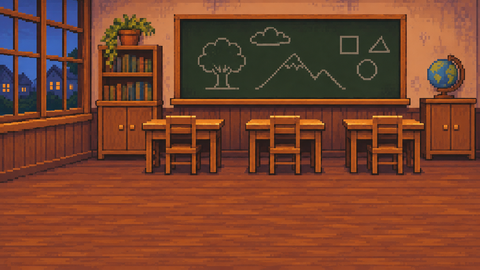
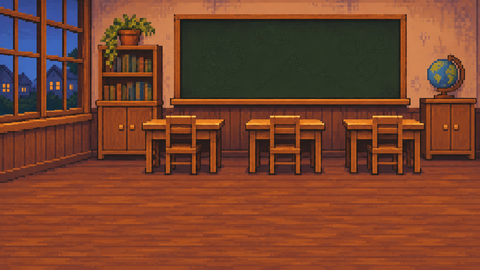
Pizarrón del instituto con ecuación, gráfico y cuenta de ahorro en lugar de dibujos infantiles
Claude-Session: https://claude.ai/code/session_01FYCCD4ovNXzH9stagu8csu

diff --git a/src/core/lugares.ts b/src/core/lugares.ts
@@ -50,6 +50,8 @@ export interface Escenario {
    * se calculó con objetos de medida conocida (una mesa mide unos 75 cm, un pupitre unos 75 cm).
    */
   escala?: number;
+  /** Lo escrito con tiza sobre un pizarrón: textos y trazos (listas de puntos x, y). */
+  tiza?: { textos: { x: number; y: number; s: string; tam: number }[]; trazos: number[][] };
 }
 
 const CALLEJON: Escenario = {
@@ -175,6 +177,30 @@ const INSTITUTO: Escenario = {
   lugar: 'instituto',
   fondos: [[0, 'instituto']],
   escala: 1.35,
+  // Pizarrón (x 181–400, y 21–95; lo de arriba de y = 38 queda bajo la barra del juego):
+  // álgebra, su gráfico y una cuenta de ahorro.
+  tiza: {
+    textos: [
+      { x: 188, y: 40, s: 'x² - 5x + 6 = 0', tam: 12 },
+      { x: 188, y: 55, s: '(x - 2)(x - 3) = 0', tam: 10 },
+      { x: 188, y: 69, s: 'x = 2   ó   x = 3', tam: 12 },
+      { x: 285, y: 40, s: 'y', tam: 8 },
+      { x: 334, y: 82, s: 'x', tam: 8 },
+      { x: 346, y: 40, s: 'Ahorro', tam: 9 },
+      { x: 346, y: 50, s: '  1200', tam: 10 },
+      { x: 346, y: 60, s: '-  950', tam: 10 },
+      { x: 346, y: 73, s: '   250', tam: 10 },
+    ],
+    trazos: [
+      // Ejes del gráfico.
+      [290, 88, 336, 88],
+      [292, 42, 292, 92],
+      // Parábola y = (x-2)(x-3): corta el eje en 2 y 3.
+      [296, 46, 300, 59, 304, 70, 308, 79, 312, 85, 316, 88, 320, 85, 324, 79, 328, 70, 332, 59],
+      // Raya de la resta.
+      [346, 71, 379, 71],
+    ],
+  },
   suelo: { x0: 36, x1: 444, y0: 206, y1: 264 },
   inicio: { x: 250, y: 240 },
   sinCama: 'Dormir en clase no está bien visto. Mejor me quedo despierto.',

diff --git a/src/escenas/Hogar.ts b/src/escenas/Hogar.ts
@@ -221,6 +221,7 @@ export class Hogar extends Phaser.Scene {
     this.rupert.etapa = e.etapa;
     this.rupert.reposo();
     this.crearRecogibles();
+    this.escribirTiza();
     this.crearHud();
 
     this.input.on('pointerdown', (p: Phaser.Input.Pointer) => this.tocar(p.x / E, p.y / E));
@@ -612,6 +613,27 @@ export class Hogar extends Phaser.Scene {
   private flotar(s: string, x: number, y: number, color: string): void {
     const t = texto(this, x, y, s, { tam: 14, color }).setOrigin(0.5).setDepth(2600);
     this.tweens.add({ targets: t, y: (y - 24) * E, alpha: 0, duration: 1200, onComplete: () => t.destroy() });
+  }
+
+  /** Texto y trazos de tiza sobre el pizarrón del lugar, si lo tiene. */
+  private escribirTiza(): void {
+    const t = this.esc.tiza;
+    if (!t) return;
+    const tiza = '#e6ece0';
+    for (const l of t.textos) {
+      this.add
+        .text(l.x * E, l.y * E, l.s, { fontFamily: '"VT323", monospace', fontSize: `${l.tam * E}px`, color: tiza })
+        .setAlpha(0.85)
+        .setDepth(-5);
+    }
+    const g = this.add.graphics().setDepth(-5).setAlpha(0.8);
+    g.lineStyle(E, 0xe6ece0, 1);
+    for (const tr of t.trazos) {
+      g.beginPath();
+      g.moveTo(tr[0] * E, tr[1] * E);
+      for (let i = 2; i < tr.length; i += 2) g.lineTo(tr[i] * E, tr[i + 1] * E);
+      g.strokePath();
+    }
   }
 
   private crearRecogibles(): void {

diff --git a/scripts/arte/procesar_escena.py b/scripts/arte/procesar_escena.py
@@ -38,3 +38,23 @@ for src, dst in [('Plaza soleada con árbol y kiosco.png', 'plaza.png'), ('Calle
                  ('Habitación humilde con cama y hornillo.png', 'pieza.png'), ('Aula retro al anochecer.png', 'instituto.png'),
                  ('Calle tranquila con coche azul.png', 'taller.png'), ('Casita acogedora al atardecer.png', 'casa.png')]:
     fondo(src, dst)
+
+# Pizarrón del instituto: se borran los dibujos de tiza (árbol, montañas, figuras) para escribir
+# contenido adulto desde el juego. Los píxeles claros dentro del pizarrón pasan al verde de alrededor.
+def limpiar_pizarron(dst, caja):
+    im = Image.open(OUT + 'fondos/' + dst).convert('RGB'); a = np.asarray(im).astype(int)
+    x0, y0, x1, y1 = caja
+    zona = a[y0:y1, x0:x1]
+    lum = zona.mean(-1)
+    tiza = lum > 70
+    # Se amplía un píxel para no dejar bordes de tiza.
+    tiza = ndi.binary_dilation(tiza, iterations=1)
+    pizarra = zona[~tiza]
+    base = np.median(pizarra, axis=0)
+    rng = np.random.default_rng(7)
+    ruido = rng.integers(-3, 4, size=(tiza.sum(), 1))
+    zona[tiza] = np.clip(base + ruido, 0, 255)
+    a[y0:y1, x0:x1] = zona
+    Image.fromarray(a.astype(np.uint8)).save(OUT + 'fondos/' + dst)
+    print('pizarrón limpio', base)
+limpiar_pizarron('instituto.png', (181, 21, 400, 95))

diff --git a/docs/DECISIONES.md b/docs/DECISIONES.md
@@ -47,3 +47,6 @@ Para pruebas automáticas en el navegador se exponen `window.__rupert` (juego de
 Los fondos de interiores están dibujados más cerca que los de exteriores. Cada escenario tiene ahora un tamaño para Rupert (`escala` en `src/core/lugares.ts`), calculado con objetos de medida conocida: pieza ×1,6 (la mesa mide unos 85 px y una mesa real unos 75 cm) e instituto ×1,35 (pupitres). Callejón, plaza, ciudad, taller y casa quedan en ×1. En esos dos lugares se bajó el suelo transitable y se reubicaron las zonas y los objetos del suelo.
 Reparto en bici: ciclista ×2,05 (antes ×1,35), obstáculos y pedidos más grandes y salto más alto (−360) para que se puedan saltar a máxima velocidad; un jugador automático completó la partida con 4 choques.
 El globo de texto de Rupert ya no tapa la barra del fondo cuando Rupert es alto.
+
+## R012 — 2026-11-26 · Pizarrón adulto en el instituto
+Los dibujos de tiza del fondo del instituto (árbol, nube, montañas, figuras geométricas) hacían que el aula pareciera de primaria. `scripts/arte/procesar_escena.py` los borra (la tiza pasa al verde del pizarrón, con un rastro leve como de borrado) y el juego escribe encima, con datos de `src/core/lugares.ts` (`tiza`): la ecuación x² − 5x + 6 = 0 factorizada con sus soluciones, el gráfico de esa parábola cortando el eje en 2 y 3, y una cuenta de ahorro (1200 − 950 = 250). Todo queda por debajo de y = 38 para que no lo tape la barra superior.
